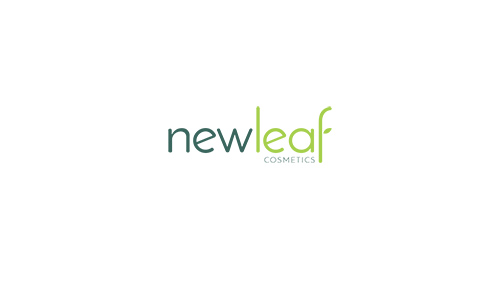
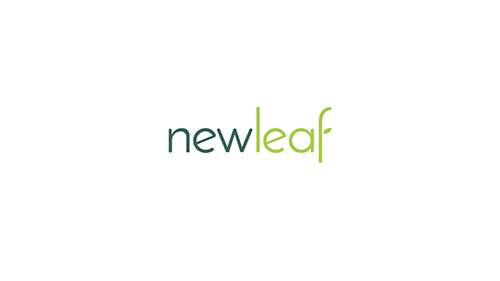
Tweaks

Changed region(s): [[0.51, 0.3986, 0.63, 0.5979], [0.33, 0.4555, 0.48, 0.5409]]

diff --git a/projects/KE9rW.html b/projects/KE9rW.html
@@ -2,7 +2,7 @@
 <html lang="en-US">
 	<head>
 		<meta charset="utf-8">
-		<title>Jake Ransom | New Leaf Cosmetics logo </title>
+		<title>Jake Ransom | Newleaf branding </title>
 		<meta name="description" content="Jake Ransom - an animator, illustrator, and designer from Perth, Western Australia">
 		<meta name="keywords" content="Jake Ransom, web design, digital design, graphic design, animation, illustration, Perth designer, Perth web designer, Perth illustrator">
 		<meta name="viewport" content="width=device-width, initial-scale=1.0">
@@ -109,7 +109,7 @@
 						</div>
 
 						<div class="img-wrapper">
-							<img class="projects-img-landscape" src="../images/gallery/newleaf2.jpg" alt="Jake Ransom Glamorous branding">
+							<img class="projects-img-website" src="../images/gallery/newleaf2.jpg" alt="Jake Ransom Glamorous branding">
 							<div class="enlarge-wrapper">
 								<div class="enlarge-button">
 									<a class="btn" href="../images/gallery/newleaf2.jpg">
@@ -129,6 +129,17 @@
 								</div>
 							</div>
 						</div>
+						
+						<div class="img-wrapper">
+							<img class="projects-img-portrait" src="../images/gallery/newleaf4.jpg" alt="Jake Ransom Glamorous branding">
+							<div class="enlarge-wrapper">
+								<div class="enlarge-button">
+									<a class="btn" href="../images/gallery/newleaf4.jpg">
+										<i class="fas fa-expand"></i>
+									</a>
+								</div>
+							</div>
+						</div>
 
 						
 
@@ -141,7 +152,7 @@
 			<aside class="artwork-info">
 				<div class="info-wrapper">
 					<h3 class="project-title">New Leaf</h3>
-					<p class="project-description">Logo design for local business</p>
+					<p class="project-description">Branding</p>
 				</div>
 			</aside>
 		</div>

diff --git a/projects/GmO4d.html b/projects/GmO4d.html
@@ -2,7 +2,7 @@
 <html lang="en-US">
 	<head>
 		<meta charset="utf-8">
-		<title>Jake Ransom | Glamorous logo </title>
+		<title>Jake Ransom | Glamorous branding </title>
 		<meta name="description" content="Jake Ransom - an animator, illustrator, and designer from Perth, Western Australia">
 		<meta name="keywords" content="Jake Ransom, web design, digital design, graphic design, animation, illustration, Perth designer, Perth web designer, Perth illustrator">
 		<meta name="viewport" content="width=device-width, initial-scale=1.0">
@@ -114,7 +114,7 @@
 						</div>
 
 						<div class="img-wrapper">
-							<img class="projects-img-landscape" src="../images/gallery/glamorous2.jpg" alt="Jake Ransom Glamorous branding">
+							<img class="projects-img-website" src="../images/gallery/glamorous2.jpg" alt="Jake Ransom Glamorous branding">
 							<div class="enlarge-wrapper">
 								<div class="enlarge-button">
 									<a class="btn" href="../images/gallery/glamorous2.jpg">
@@ -200,7 +200,7 @@
 			<aside class="artwork-info">
 				<div class="info-wrapper">
 					<h3 class="project-title">Glamorous</h3>
-					<p class="project-description">Playing around with some branding for a fake beauty spa and cosmetic company.</p>
+					<p class="project-description">Branding</p>
 				</div>
 			</aside>
 		</div>

diff --git a/index.html b/index.html
@@ -188,7 +188,7 @@
 										<img src="images/gallery/thumbs/newleaf.jpg">
 										<div class="overlay"></div>
 										<div class="overlay-caption">
-										<div class="thumb-caption">Logo Design</div>
+										<div class="thumb-caption">Branding</div>
 										</div>
 									</div>
 								</a>
@@ -259,7 +259,7 @@
 										<img src="images/gallery/thumbs/glamorous.jpg">
 										<div class="overlay"></div>
 										<div class="overlay-caption">
-										<div class="thumb-caption">Logo Design</div>
+										<div class="thumb-caption">Branding</div>
 										</div>
 									</div>
 								</a>
@@ -447,7 +447,7 @@
 										<img src="images/gallery/thumbs/glamorous.jpg">
 										<div class="overlay"></div>
 										<div class="overlay-caption">
-										<div class="thumb-caption">Logo Design</div>
+										<div class="thumb-caption">Branding</div>
 										</div>
 									</div>
 								</a>
@@ -465,7 +465,7 @@
 										<img src="images/gallery/thumbs/newleaf.jpg">
 										<div class="overlay"></div>
 										<div class="overlay-caption">
-										<div class="thumb-caption">Logo Design</div>
+										<div class="thumb-caption">Branding</div>
 										</div>
 									</div>
 								</a>

diff --git a/css/projects-styles.css b/css/projects-styles.css
@@ -403,6 +403,15 @@ p {
 	box-shadow: 0px 2px 5px 0px #d1d9df;
 }
 
+.projects-img-website {
+	height: auto;
+	max-height: 1200px;
+	max-width: 100%;
+	width: auto;
+	margin: auto;
+	box-shadow: 0px 2px 5px 0px #d1d9df;
+}
+
 .video-wrapper {
 	position: relative;
 	padding-bottom: 56.25%; /* 16:9 ratio */
@@ -701,6 +710,13 @@ iframe {
 	}
 
 	.projects-img-portrait {
+		height: auto;
+		max-width: 1300px;
+		width: auto;
+		margin: auto;
+	}
+	
+	.projects-img-website {
 		height: auto;
 		max-width: 1300px;
 		width: auto;
